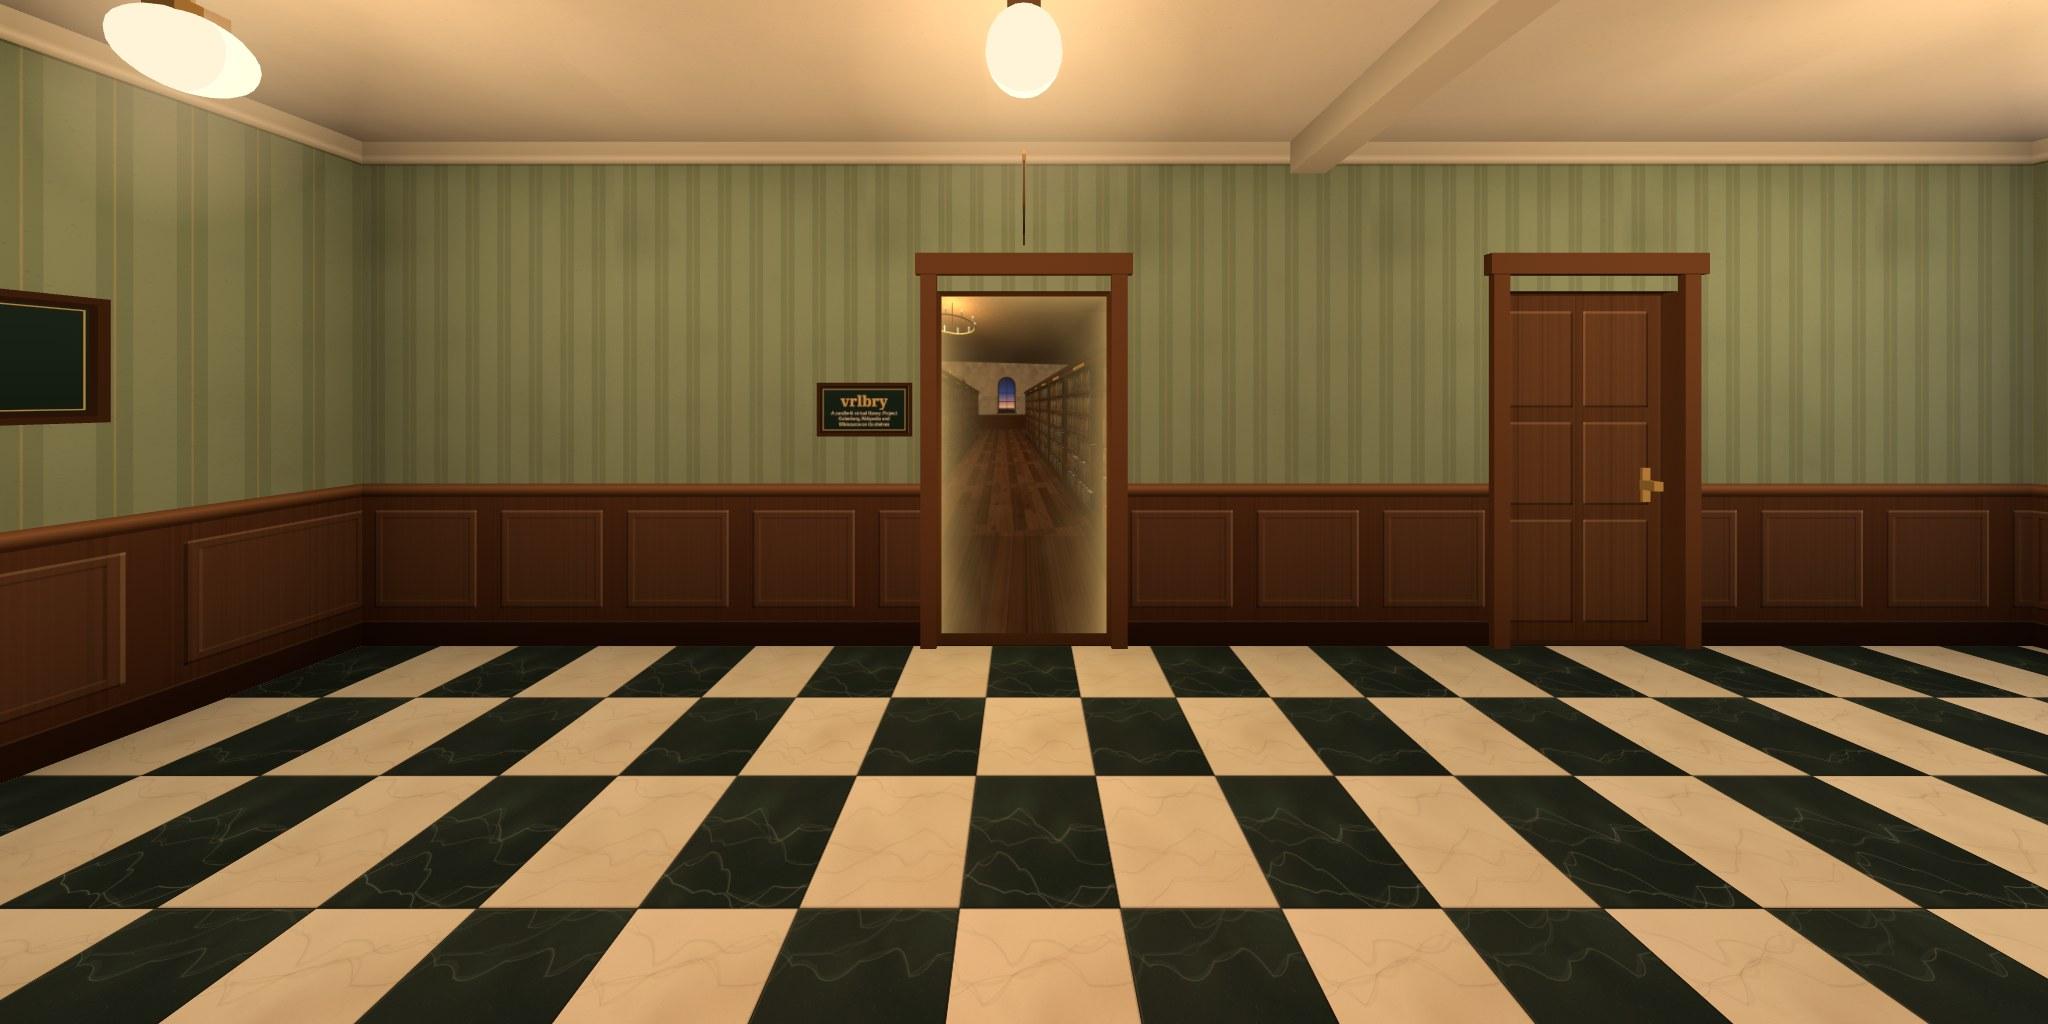
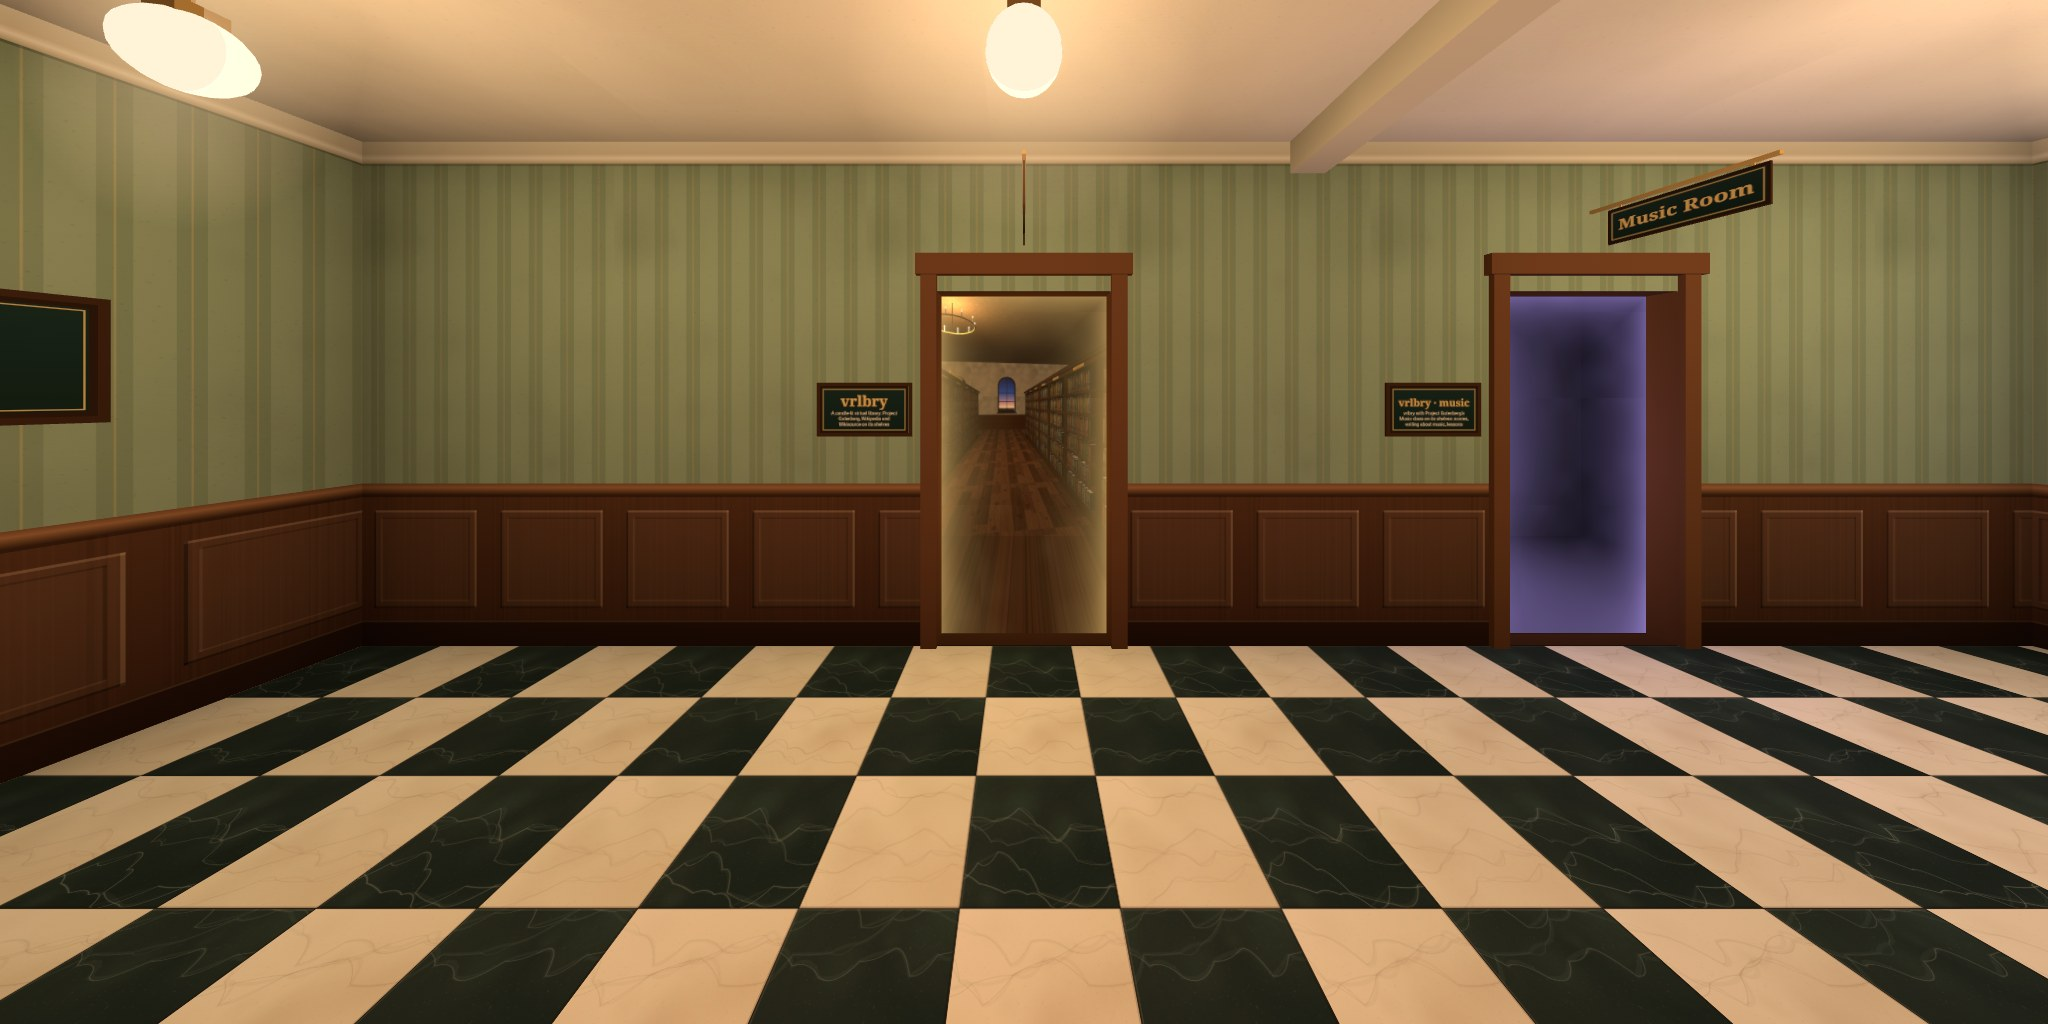
A third door: vrlbry · music, under a "Music Room" sign
The left door of the second pair opens https://ariamokr.github.io/music/,
vrlbry with Project Gutenberg's Music class on its shelves (AriaMoKr/music).
Its doorway glows violet and shows its title for now: its social.jpg is
still vrlbry's, which would show vrlbry's room twice.

The door views are rendered again on a Quest: breadboard's door looks
across at the new doorway, and music.jpg is new. README and CLAUDE.md
list the third door, which takes the VR hand-over like vrlbry.

Changed region(s): [[0.6562, 0.2812, 0.9688, 0.7812], [0.6875, 0.0938, 0.875, 0.25]]

diff --git a/public/js/environments.js b/public/js/environments.js
@@ -33,4 +33,13 @@ export const ENVIRONMENTS = [
     // The red of its LEDs, softened.
     color: '#d8543f',
   },
+  {
+    id: 'music',
+    title: 'vrlbry · music',
+    subtitle: "vrlbry with Project Gutenberg's Music class on its shelves: scores, writing about music, lessons",
+    sign: 'Music Room',
+    url: 'https://ariamokr.github.io/music/',
+    // No preview yet: its social.jpg is still vrlbry's, so the doorway shows the title.
+    color: '#9b86d6',
+  },
 ];

diff --git a/public/index.html b/public/index.html
@@ -25,6 +25,7 @@
     <ul>
       <li><a href="https://ariamokr.github.io/vrlbry/?place=%7Egutenberg_en_all_2025-11">vrlbry</a>: a candle-lit virtual library</li>
       <li><a href="https://ariamokr.github.io/breadboard/vr.html">Breadboard 8-bit</a>: Ben Eater's 8-bit breadboard computer in 3D</li>
+      <li><a href="https://ariamokr.github.io/music/">vrlbry · music</a>: Project Gutenberg's music books in vrlbry's library</li>
     </ul>
   </div>
 </noscript>

diff --git a/README.md b/README.md
@@ -3,10 +3,11 @@
 **https://ariamokr.github.io/hallway/**
 
 A WebXR corridor whose doors lead to other environments:
-[vrlbry](https://ariamokr.github.io/vrlbry/), a candle-lit virtual library, and
+[vrlbry](https://ariamokr.github.io/vrlbry/), a candle-lit virtual library;
 [Breadboard 8-bit](https://ariamokr.github.io/breadboard/vr.html), Ben Eater's 8-bit breadboard
-computer in 3D, run live by its simulator. Walk the hallway in VR on a Meta Quest, on a desktop or
-on a phone. There is nothing to install.
+computer in 3D, run live by its simulator; and [vrlbry · music](https://ariamokr.github.io/music/),
+vrlbry with Project Gutenberg's music books on its shelves. Walk the hallway in VR on a Meta
+Quest, on a desktop or on a phone. There is nothing to install.
 
 Each open doorway shows the room behind it: the environment's picture, seen with parallax (and
 depth, in a headset), behind a glowing veil. A door without a picture shows its name instead.
@@ -199,13 +200,13 @@ navigator.xr?.addEventListener('sessiongranted', () => {
 ```
 
 Without that listener, the visitor arrives at the environment's 2D page and presses its Enter VR
-button. vrlbry and Breadboard 8-bit's VR view both listen.
+button. vrlbry, Breadboard 8-bit's VR view and vrlbry · music all listen.
 
 The hand-over has two limits, measured on a Quest with Quest Browser 152 (vrlbry,
 [`7eca62b`](https://github.com/AriaMoKr/vrlbry/commit/7eca62b)):
 
 - **One origin only.** A navigation to another origin (another domain, or another port) gets no
-  grant, so the visitor arrives at the 2D page. The hallway, vrlbry and Breadboard 8-bit are all on
+  grant, so the visitor arrives at the 2D page. The hallway and all three environments are on
   `ariamokr.github.io`, so the hand-over can work between them.
 - **About 5 seconds.** The grant arrives about 0.1 s after the next page starts. A request made up
   to 4.7 s later starts the session, while one at 5.2 s is refused as needing a click. Ask for the

diff --git a/CLAUDE.md b/CLAUDE.md
@@ -6,8 +6,9 @@ Guidance for Claude Code in this repository.
 
 A WebXR hallway (three.js 0.186, plain ES modules, no bundler or build step): a corridor whose
 doors lead to other web environments: vrlbry (https://ariamokr.github.io/vrlbry/, AriaMoKr/vrlbry,
-whose conventions this project follows) and Breadboard 8-bit's VR view
-(https://ariamokr.github.io/breadboard/vr.html). `public/` is the whole site. `README.md` covers
+whose conventions this project follows), Breadboard 8-bit's VR view
+(https://ariamokr.github.io/breadboard/vr.html) and vrlbry · music (https://ariamokr.github.io/music/,
+AriaMoKr/music: vrlbry with Gutenberg's Music class). `public/` is the whole site. `README.md` covers
 using it, adding a door, what a door's link tells the environment, how environments link back,
 and the door views the site publishes for them.
 
